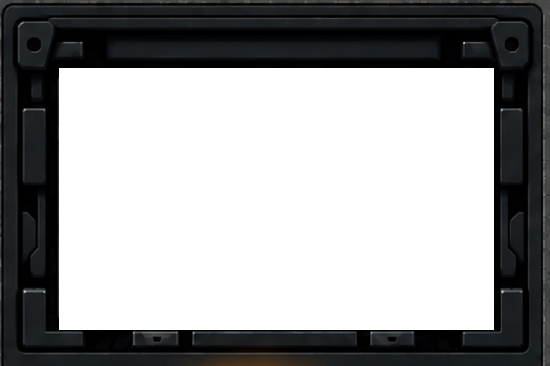
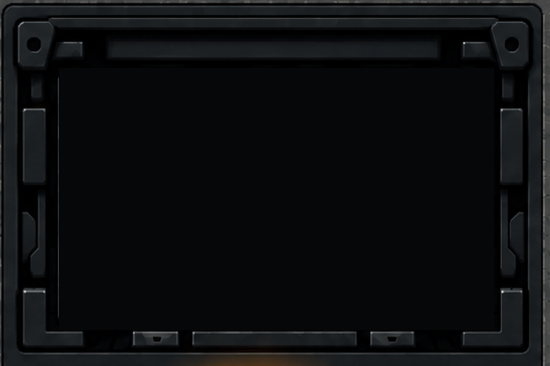
Add opaque reader background behind reels

diff --git a/tests/cassette_contract.py b/tests/cassette_contract.py
@@ -17,7 +17,7 @@ reader=Image.open(assets/'reader-mechanism.webp').convert('RGBA')
 cassette=Image.open(assets/'cassette.webp').convert('RGBA')
 assert reader.size == (550,366)
 assert cassette.size == (435,262)
-assert reader.getpixel((275,190))[3] == 0
+assert reader.getpixel((275,190))[3] == 255
 assert cassette.getpixel((121,116))[3] == 0
 assert cassette.getpixel((304,116))[3] == 0
 
@@ -31,4 +31,4 @@ for selector,level in (('.cassetteReel',1),('.cassetteTape',2)):
 assert 'animation-play-state:paused' in css
 assert re.search(r'\.cassetteDeck\.playing\s+\.cassetteReel\s*\{[^}]*animation-play-state\s*:\s*running',css,re.S)
 assert 'cassetteGlass' not in html+css
-print('OK: reader, cassette and opaque animated reels have separate ownership')
+print('OK: opaque reader background, cassette and animated reels have separate ownership')
